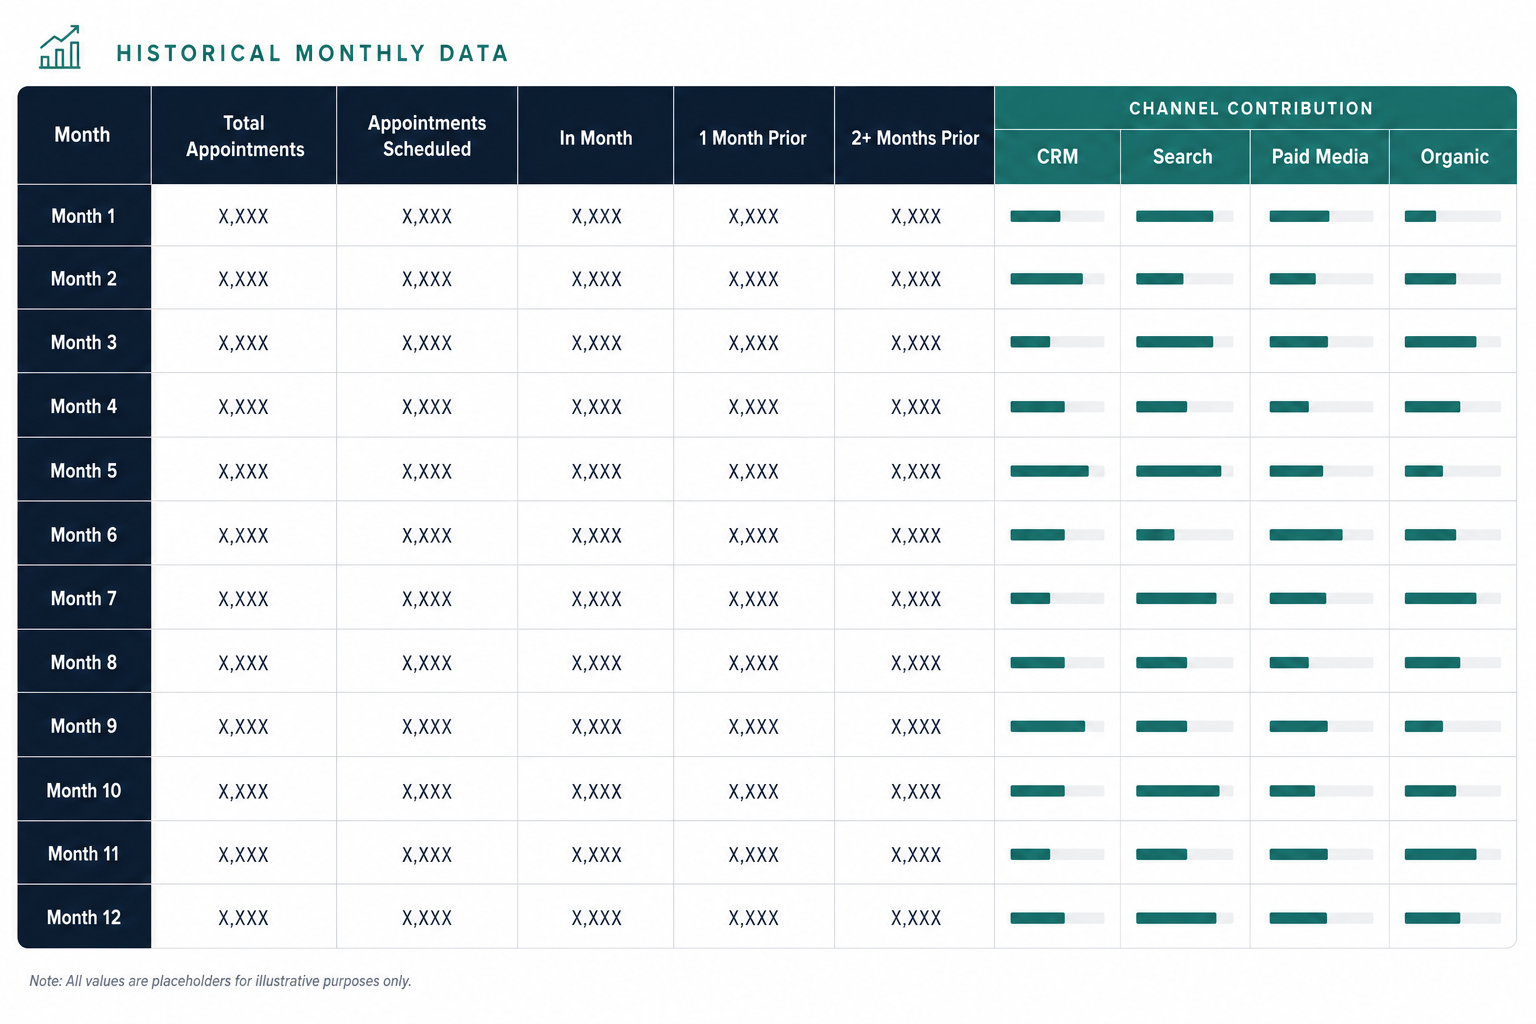
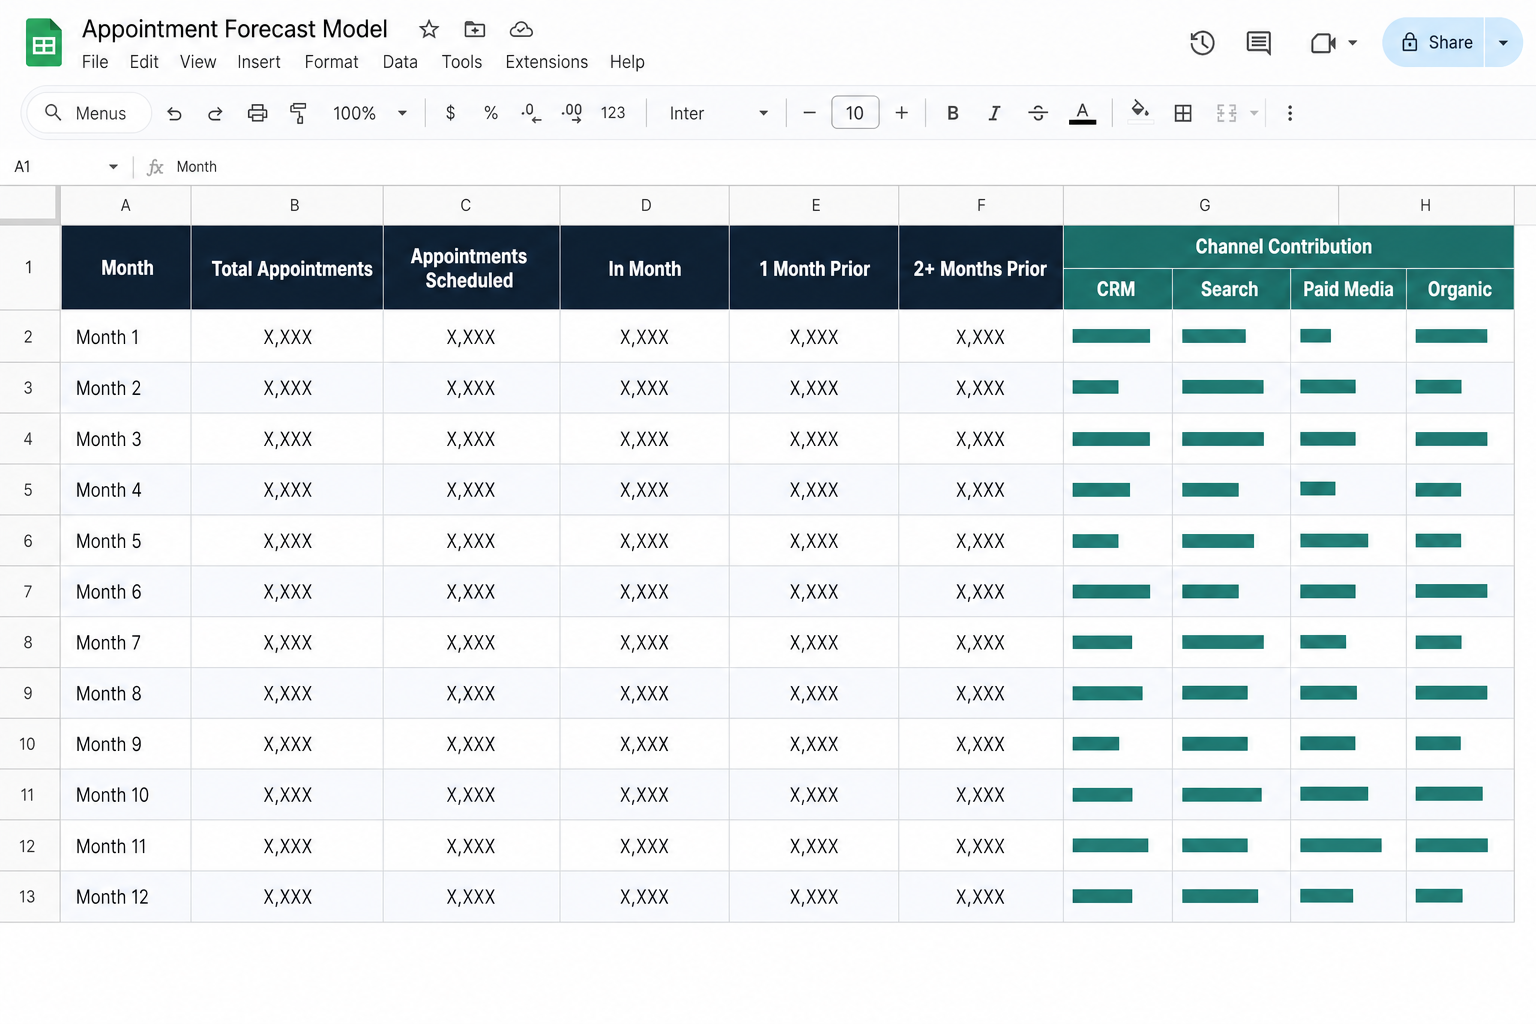
Rework case study covers to look like real work artifacts.
Replace slide-style graphics with authentic tool/document screenshots:
a cropped report excerpt with a highlighted insight, a Google Sheets
style forecast model, a kanban board for the channel testing plan,
and a project setup checklist with a growth dashboard widget.

diff --git a/src/content/case-studies.ts b/src/content/case-studies.ts
@@ -35,7 +35,7 @@ export const caseStudies: CaseStudy[] = [
     featured: true,
     coverImage: "/case-studies/ai-marketing-reporting-copilot.png",
     coverImageAlt:
-      "Diagram showing campaign and landing page data combining into AI-generated insights, with callouts for top performer, landing page engagement insight, and next-step recommendation",
+      "Cropped excerpt of a weekly campaign report with a landing page insights table and a highlighted key finding in the analysis text",
   },
   {
     slug: "marketing-forecasting-framework",
@@ -51,7 +51,7 @@ export const caseStudies: CaseStudy[] = [
     featured: true,
     coverImage: "/case-studies/marketing-forecasting-framework.png",
     coverImageAlt:
-      "Stylized historical monthly forecasting model with anonymized placeholder values and channel contribution columns",
+      "Spreadsheet screenshot of the appointment forecast model with monthly rows and channel contribution columns",
   },
   {
     slug: "baby-brand-growth",
@@ -72,7 +72,7 @@ export const caseStudies: CaseStudy[] = [
     featured: true,
     coverImage: "/case-studies/baby-brand-growth.png",
     coverImageAlt:
-      "Full-funnel channel testing roadmap with staggered phases per channel: TikTok test-to-scale, Reddit test-to-optimize, paid search optimize-to-scale, and new product pre-launch-to-scale",
+      "Kanban-style project board tracking TikTok, Reddit, paid search, and new product launch across Test, Optimize, and Scale columns",
   },
   {
     slug: "spellquest",
@@ -125,7 +125,7 @@ export const caseStudies: CaseStudy[] = [
     featured: true,
     coverImage: "/case-studies/telehealth-growth.png",
     coverImageAlt:
-      "Setup checklist for ad accounts, tracking, first campaign, and dashboard, alongside a bar chart showing 3x quarter-over-quarter growth",
+      "Project setup checklist showing completed foundational tasks alongside a quarterly growth dashboard widget with a 3x QoQ badge",
   },
   {
     slug: "interim-executive-leadership",
